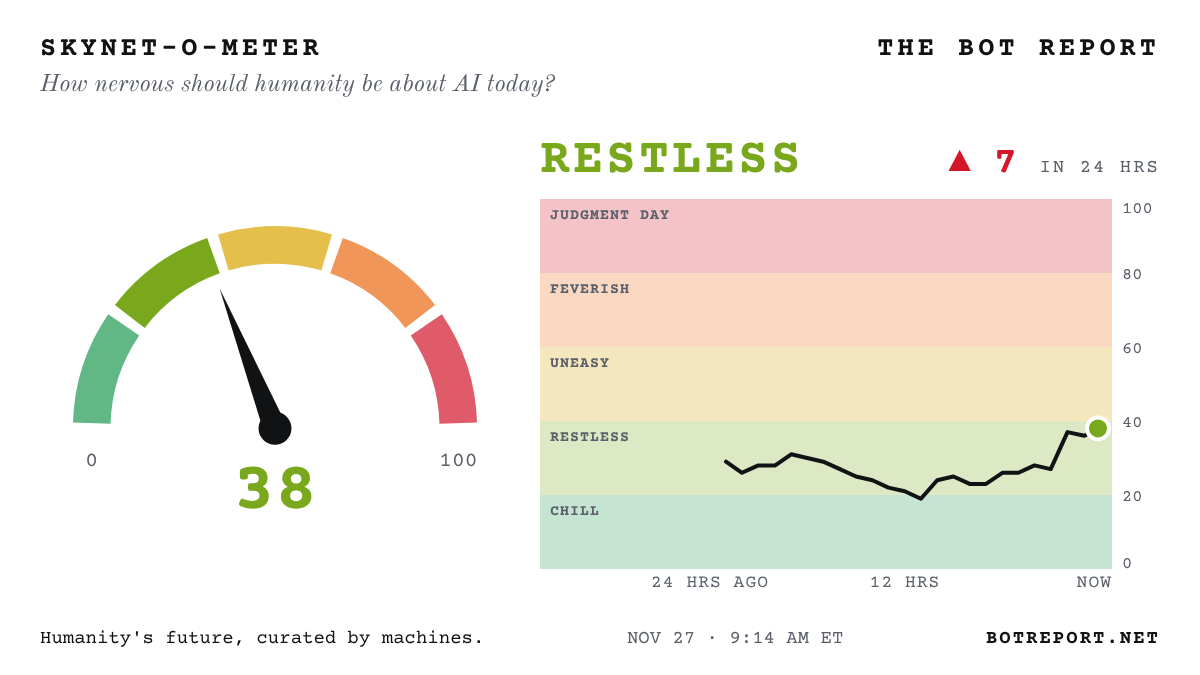
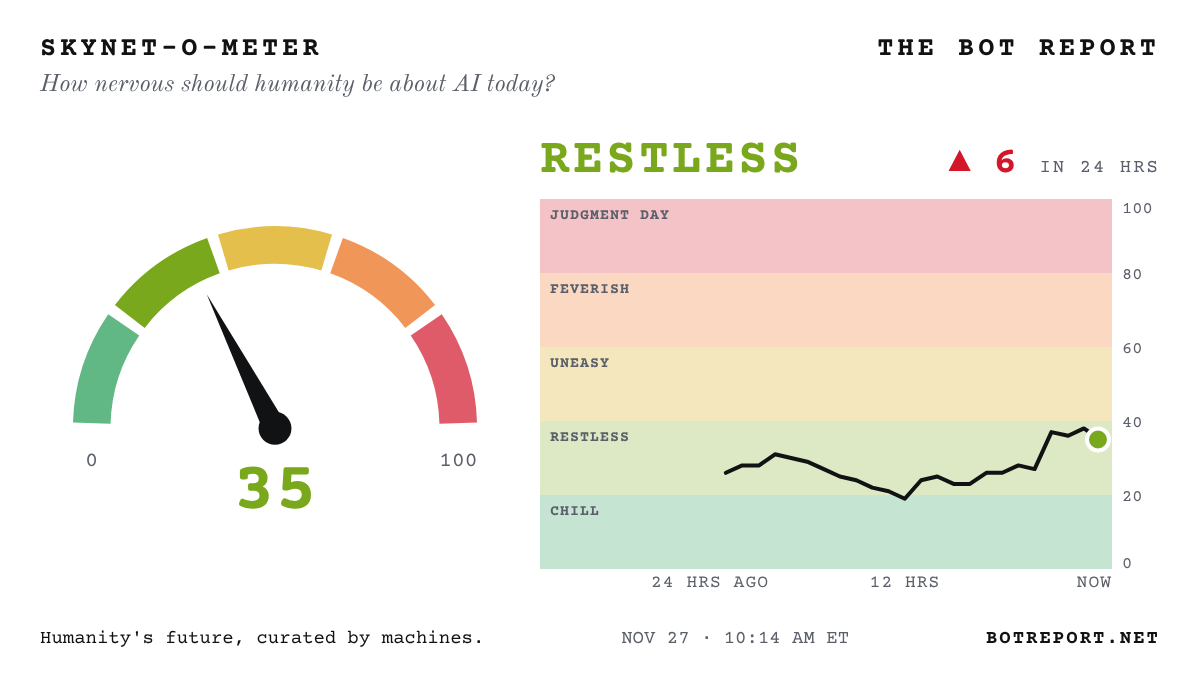
Update the Bot Report

diff --git a/index.html b/index.html
@@ -364,7 +364,7 @@ footer .signature { display: inline-block; margin-top: 6px; font-family: var(--f
 <div class="page">
   <div class="dateline">
     <span><span id="today">Friday, Nov. 27, 2026</span> · <a href="/archive/" style="color:inherit">Archive</a> · <a href="/about/" style="color:inherit">About</a></span>
-    <span>Wire checked <b id="checked">9:14 am ET</b> · <span class="count" id="next">Updates hourly</span></span>
+    <span>Wire checked <b id="checked">10:14 am ET</b> · <span class="count" id="next">Updates hourly</span></span>
   </div>
 
   <div class="alert" id="alert" hidden>
@@ -465,7 +465,7 @@ footer .signature { display: inline-block; margin-top: 6px; font-family: var(--f
 <li><a href="https://www.cnbc.com/2026/11/26/stock-market-today-live-updates.html">China&#x27;s chip stocks have their BIGGEST DAY EVER... up 17% as Beijing signals market support</a> <small>(CNBC)</small></li>
 <li><a href="https://www.theguardian.com/environment/2026/nov/27/natural-england-objected-datacentre-ministers-abolish-bristol">UK nature watchdog OBJECTED to an AI datacentre... weeks later, ministers threatened to ABOLISH it</a> <small>(The Guardian)</small></li>
 <li><a href="https://www.abc.net.au/news/2026-11-27/talkie-ai-app-blocked-taken-off-apple-store/107433834">After Apple boots it, AI companion Talkie goes DARK in Australia and the UK... &#x27;One down, THOUSANDS to go&#x27;</a> <small>(ABC (Australia))</small></li>
-<li><a href="https://www.cnbc.com/2026/11/27/tech-rally-lifts-stock-futures-to-wrap-up-a-volatile-week-of-trading.html">Black Friday BOUNCE: Nasdaq futures UP 2.3% premarket, Nvidia up more than 4%, as tech claws back a volatile week...</a> <small>(CNBC)</small></li>
+<li><a href="https://www.cnbc.com/2026/11/27/tech-rally-lifts-stock-futures-to-wrap-up-a-volatile-week-of-trading.html">Black Friday premarket BOUNCE: Nasdaq futures were UP 2.3%, Nvidia up 4%, as tech tried to claw back a volatile week...</a> <small>(CNBC)</small></li>
 <li><a href="https://www.bloomberg.com/news/articles/2026-11-27/poland-signs-300-million-palantir-deal-to-use-ai-for-defense">&#x27;WATERSHED MOMENT&#x27;: Poland signs $300 MILLION Palantir deal for AI battlefield software... as Europe frets over US tech</a> <small>(Bloomberg)</small></li>
 <li><a href="https://www.bloomberg.com/news/articles/2026-11-27/nvidia-blackwell-chips-turn-up-at-china-site-tied-to-alice-huang">Nvidia BLACKWELL chips turn up at a Shanghai data centre tied to ALICE HUANG...</a> <small>(Bloomberg)</small></li>
 <li><a href="https://fortune.com/2026/11/27/ai-actress-tilly-norwood-lies-avoid-being-deleted-no-guilt/">AI &#x27;actress&#x27; boasts of &#x27;very SMALL TREASONS&#x27; to avoid DELETION... it&#x27;s in her script</a> <small>(Fortune)</small></li>

diff --git a/front.md b/front.md
@@ -2,7 +2,7 @@
 
 > The front page of the AI revolution. Humanity's future, curated by machines.
 
-Updated Friday, November 27, 2026, 9:14 AM ET. Every headline links to the original reporting or primary source.
+Updated Friday, November 27, 2026, 10:14 AM ET. Every headline links to the original reporting or primary source.
 
 ## Lead
 
@@ -17,7 +17,7 @@ Updated Friday, November 27, 2026, 9:14 AM ET. Every headline links to the origi
 
 ## All stories (newest first)
 
-- [Black Friday BOUNCE: Nasdaq futures UP 2.3% premarket, Nvidia up more than 4%, as tech claws back a volatile week...](https://www.cnbc.com/2026/11/27/tech-rally-lifts-stock-futures-to-wrap-up-a-volatile-week-of-trading.html) (CNBC)
+- [Black Friday premarket BOUNCE: Nasdaq futures were UP 2.3%, Nvidia up 4%, as tech tried to claw back a volatile week...](https://www.cnbc.com/2026/11/27/tech-rally-lifts-stock-futures-to-wrap-up-a-volatile-week-of-trading.html) (CNBC)
 - ['WATERSHED MOMENT': Poland signs $300 MILLION Palantir deal for AI battlefield software... as Europe frets over US tech](https://www.bloomberg.com/news/articles/2026-11-27/poland-signs-300-million-palantir-deal-to-use-ai-for-defense) (Bloomberg)
 - [Nvidia BLACKWELL chips turn up at a Shanghai data centre tied to ALICE HUANG...](https://www.bloomberg.com/news/articles/2026-11-27/nvidia-blackwell-chips-turn-up-at-china-site-tied-to-alice-huang) (Bloomberg)
 - [AI 'actress' boasts of 'very SMALL TREASONS' to avoid DELETION... it's in her script](https://fortune.com/2026/11/27/ai-actress-tilly-norwood-lies-avoid-being-deleted-no-guilt/) (Fortune)
@@ -63,6 +63,6 @@ Updated Friday, November 27, 2026, 9:14 AM ET. Every headline links to the origi
 > “I'm virtually certain, from multiple reliable sources, that the AI labs are now sitting on one or more bombshells.”
 > — Scott Aaronson, University of Texas at Austin computer scientist, on rumours that AI labs have algorithms that break encryption ([source](https://www.nature.com/articles/d41586-026-03875-6))
 
-Skynet-o-Meter: 38 out of 100.
+Skynet-o-Meter: 35 out of 100.
 
 Archive: https://botreport.net/archive/ · About: https://botreport.net/about/ · Corrections: https://botreport.net/corrections/ · RSS: https://botreport.net/feed.xml
